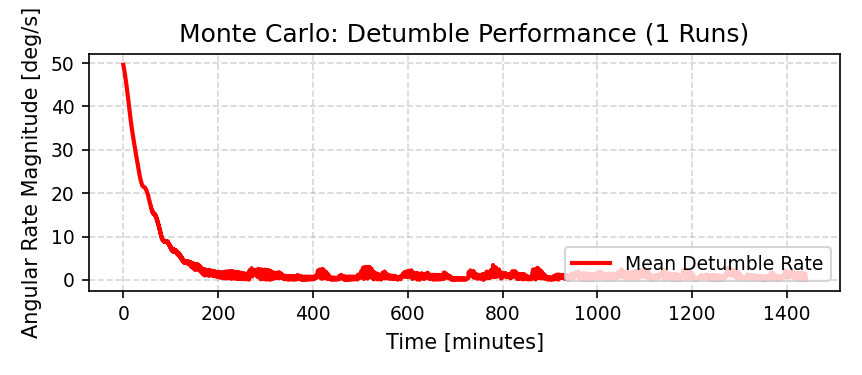
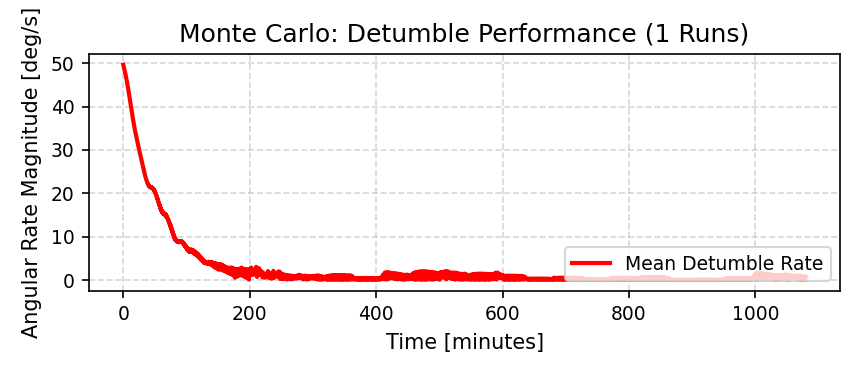
help

diff --git a/scenario_minimal_montecarlo.py b/scenario_minimal_montecarlo.py
@@ -129,7 +129,10 @@ class SimpleMagneticField(sysModel.SysModel):
             m_unit = np.array([0.0, 0.0, -1.0])
             m_dot_r = np.dot(m_unit, r_hat)
             B_N = (self.mu_earth / r_mag**3) * (3.0 * m_dot_r * r_hat - m_unit)
+<<<<<<< Updated upstream
             # SIMPLE NOISE
+=======
+>>>>>>> Stashed changes
             B_N += np.random.normal(loc=0.0, scale=15e-9, size=3)
         else:
             B_N = np.zeros(3)
@@ -415,7 +418,7 @@ class AeroTorqueFromTable(sysModel.SysModel):
 
 def run_adcs_sim(sim_index, initial_conditions):
     sim_dt = 0.1
-    stop_time = 16*5400.0
+    stop_time = 12*5400.0
     alpha = 0.0;  # Deployment angle for aerodynamic torque table selection choose from (0, 30, 60 ,90)
 
     simProcessName = "simProcess " + str(sim_index)
@@ -542,8 +545,12 @@ def run_adcs_sim(sim_index, initial_conditions):
     TAM.ModelTag = "TAM"
     TAM.scaleFactor = 1.0
     # TAM.senNoiseStd = [15e-9, 15e-9, 15e-9]
+<<<<<<< Updated upstream
     # SIMPLE NOISE MODEL
     TAM.senNoiseStd = [0,0,0]
+=======
+    TAM.senNoiseStd = [0.0, 0.0, 0.0]  # No noise for testing
+>>>>>>> Stashed changes
     TAM.maxOutput = 800e-6
     TAM.minOutput = -800e-6
     TAM.dcm_SB = [
@@ -726,19 +733,19 @@ def run_adcs_sim(sim_index, initial_conditions):
     r_mag_plot = np.linalg.norm(r_BN_N, axis=1)
     lat_rad = np.arcsin(r_BN_N[:, 2] / r_mag_plot)
     lat_deg = np.degrees(lat_rad)
-    pole_mask = np.abs(lat_deg) > 85  # Within 5 degrees of poles
+    pole_mask = np.abs(lat_deg) > 75  # Within 5 degrees of poles
     
     # Plot in segments with different colors
     start = 0
     for i in range(1, len(pole_mask)):
         if pole_mask[i] != pole_mask[i-1]:
             end = i
-            color = 'red' if pole_mask[i-1] else 'tab:orange'
+            color = 'red' if pole_mask[i-1] else 'tab:blue'
             label = 'Nadir Error (Pole)' if pole_mask[i-1] else 'Nadir Error'
             plt.plot(time_min[start:end], body_z_to_nadir_deg[start:end], color=color, label=label if start == 0 else "")
             start = i
     # Last segment
-    color = 'red' if pole_mask[-1] else 'tab:orange'
+    color = 'red' if pole_mask[-1] else 'tab:blue'
     label = 'Nadir Error (Pole)' if pole_mask[-1] else 'Nadir Error'
     plt.plot(time_min[start:], body_z_to_nadir_deg[start:], color=color, label=label if start == 0 else "")
     
@@ -748,6 +755,46 @@ def run_adcs_sim(sim_index, initial_conditions):
     plt.grid(True)
     plt.savefig('nadir_pointing_error.png', dpi=150)
     plt.show()
+
+    
+    fig, axes = plt.subplots(4, 1, figsize=(12, 26), sharex=True)
+
+    axes[0].plot(time_min[start:], body_z_to_nadir_deg[start:], color=color, label=label if start == 0 else "")
+    
+    axes[0].set_ylabel('Angle [deg]')
+    axes[0].set_title('Body +Z alignment offset from Nadir')
+    axes[0].legend()
+    axes[0].grid(True)
+
+    # Plot 2: Magnetometer (TAM) measurement magnitude
+    axes[1].plot(time_min, np.linalg.norm(B_tam_S_nT, axis=1), color='tab:green')
+    axes[1].set_ylabel('|B| [nT]')
+    axes[1].set_title('TAM magnitude')
+    axes[1].grid(True)
+
+    # plot 3: Commanded magnetorquer (MTB) dipole moments
+    axes[2].plot(time_min, dipole_cmd[:, 0], label='mx')
+    axes[2].plot(time_min, dipole_cmd[:, 1], label='my')
+    axes[2].plot(time_min, dipole_cmd[:, 2], label='mz')
+    axes[2].axhline(0.0, color='k', linestyle='--', linewidth=0.6)
+    axes[2].set_ylabel('Dipole [A·m²]')
+    axes[2].set_title('Commanded MTB dipoles')
+    axes[2].legend()
+    axes[2].grid(True)
+
+    # plot 4: Applied magnetorquer (MTB) torques on spacecraft body
+    axes[3].plot(time_min, torque_mtb_uNm[:, 0], label='τx MTB')
+    axes[3].plot(time_min, torque_mtb_uNm[:, 1], label='τy MTB')
+    axes[3].plot(time_min, torque_mtb_uNm[:, 2], label='τz MTB')
+    axes[3].axhline(0.0, color='k', linestyle='--', linewidth=0.6)
+    axes[3].set_ylabel('MTB torque [µN·m]')
+    axes[3].set_title('Applied MTB torques')
+    axes[3].legend()
+    axes[3].grid(True)
+
+    plt.savefig('adcs_results.png', dpi=150)
+    plt.show()
+
     # fig, axes = plt.subplots(7, 1, figsize=(12, 26), sharex=True)
 
     # # Plot 0: Body rate
@@ -839,7 +886,7 @@ def run_adcs_sim(sim_index, initial_conditions):
 def run_monte_carlo(num_runs=1):
     """Executes multiple simulations with randomized parameters."""
     # 1. Define a common time grid for averaging (0 to 5400s)
-    common_time = np.linspace(0, 5400*16, 5000) 
+    common_time = np.linspace(0, 5400*12, 5000) 
     all_rates = []
 
     # Define Inertia Bounds (Best, Nominal, Worst)
